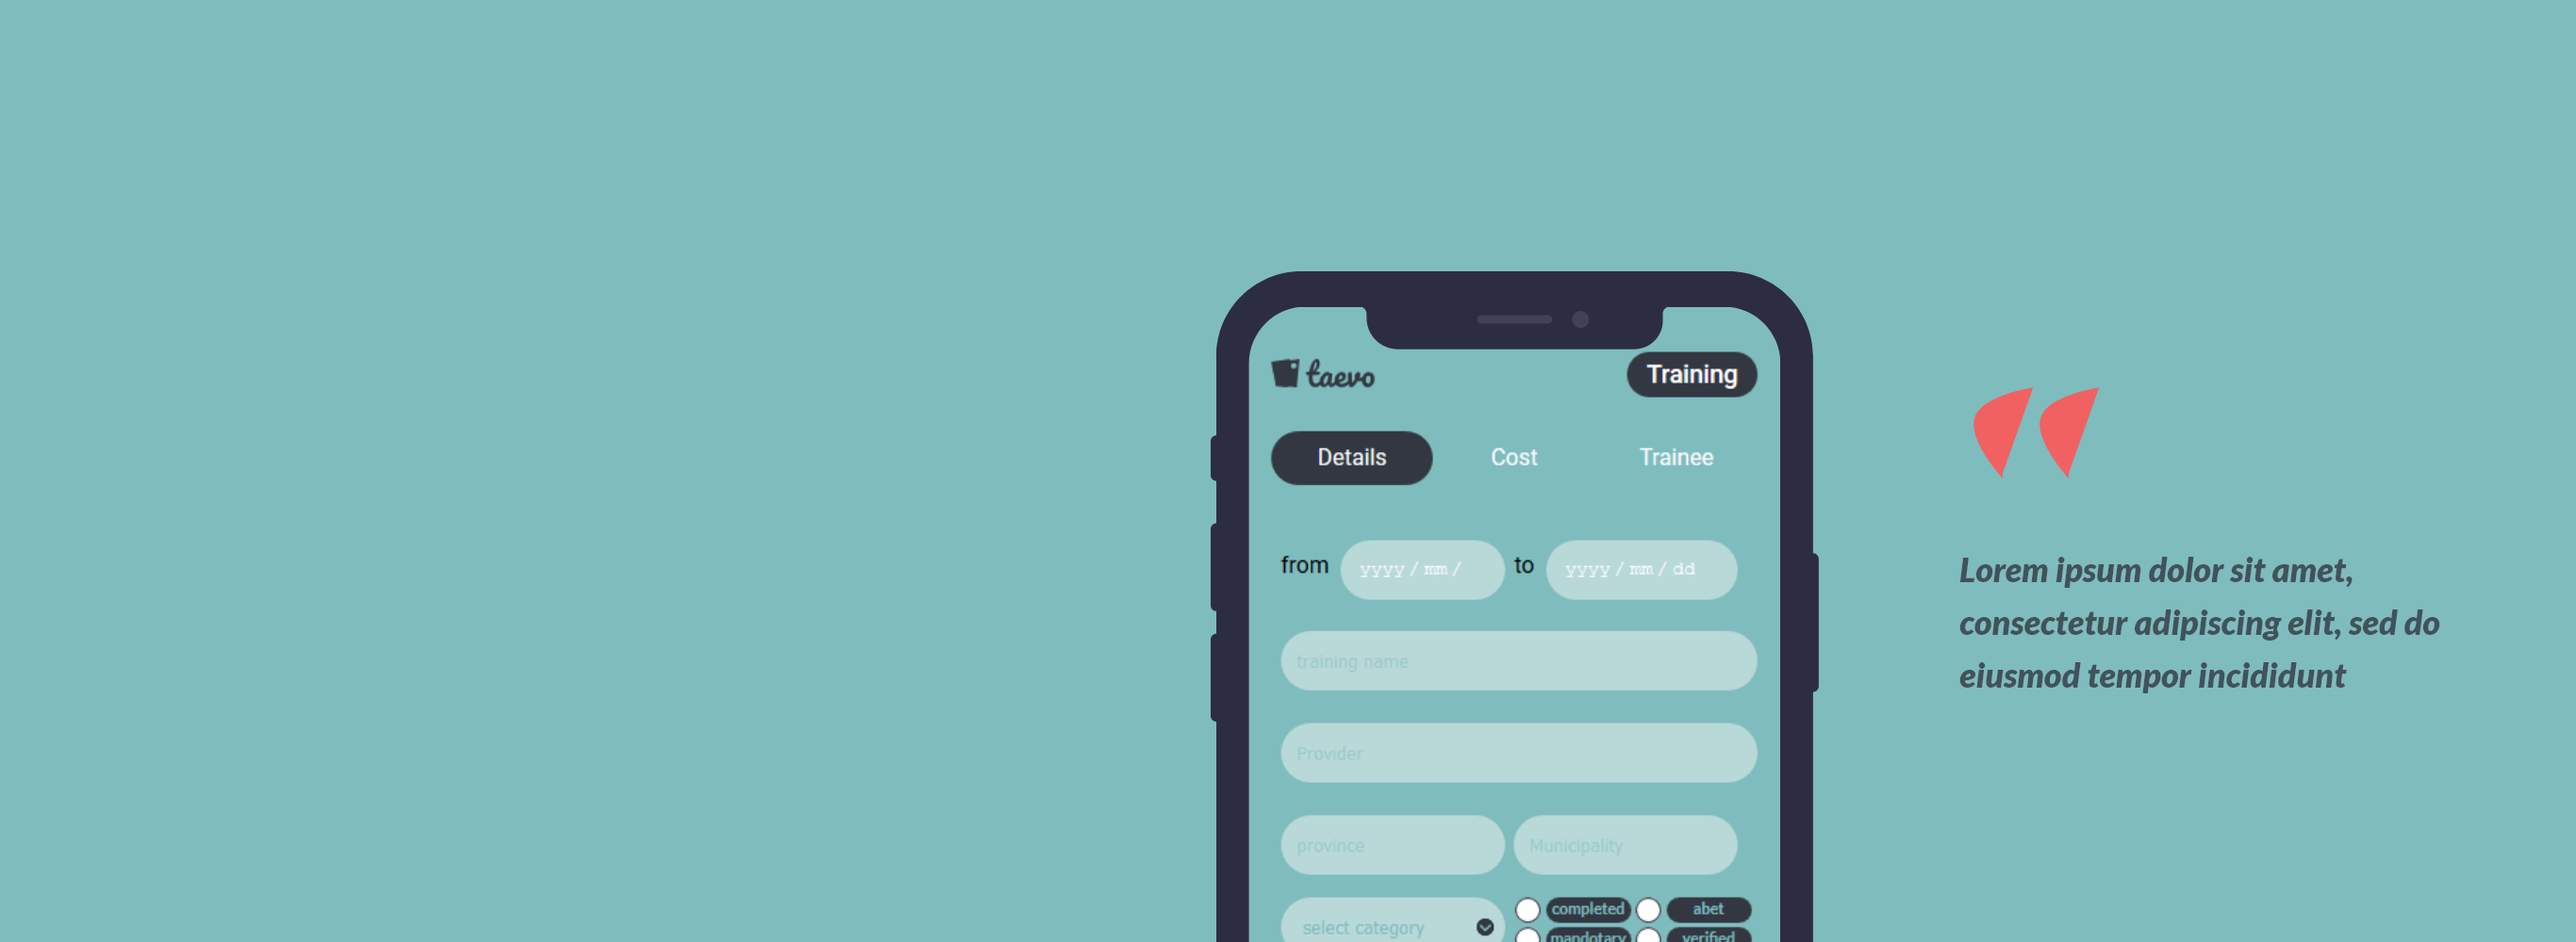
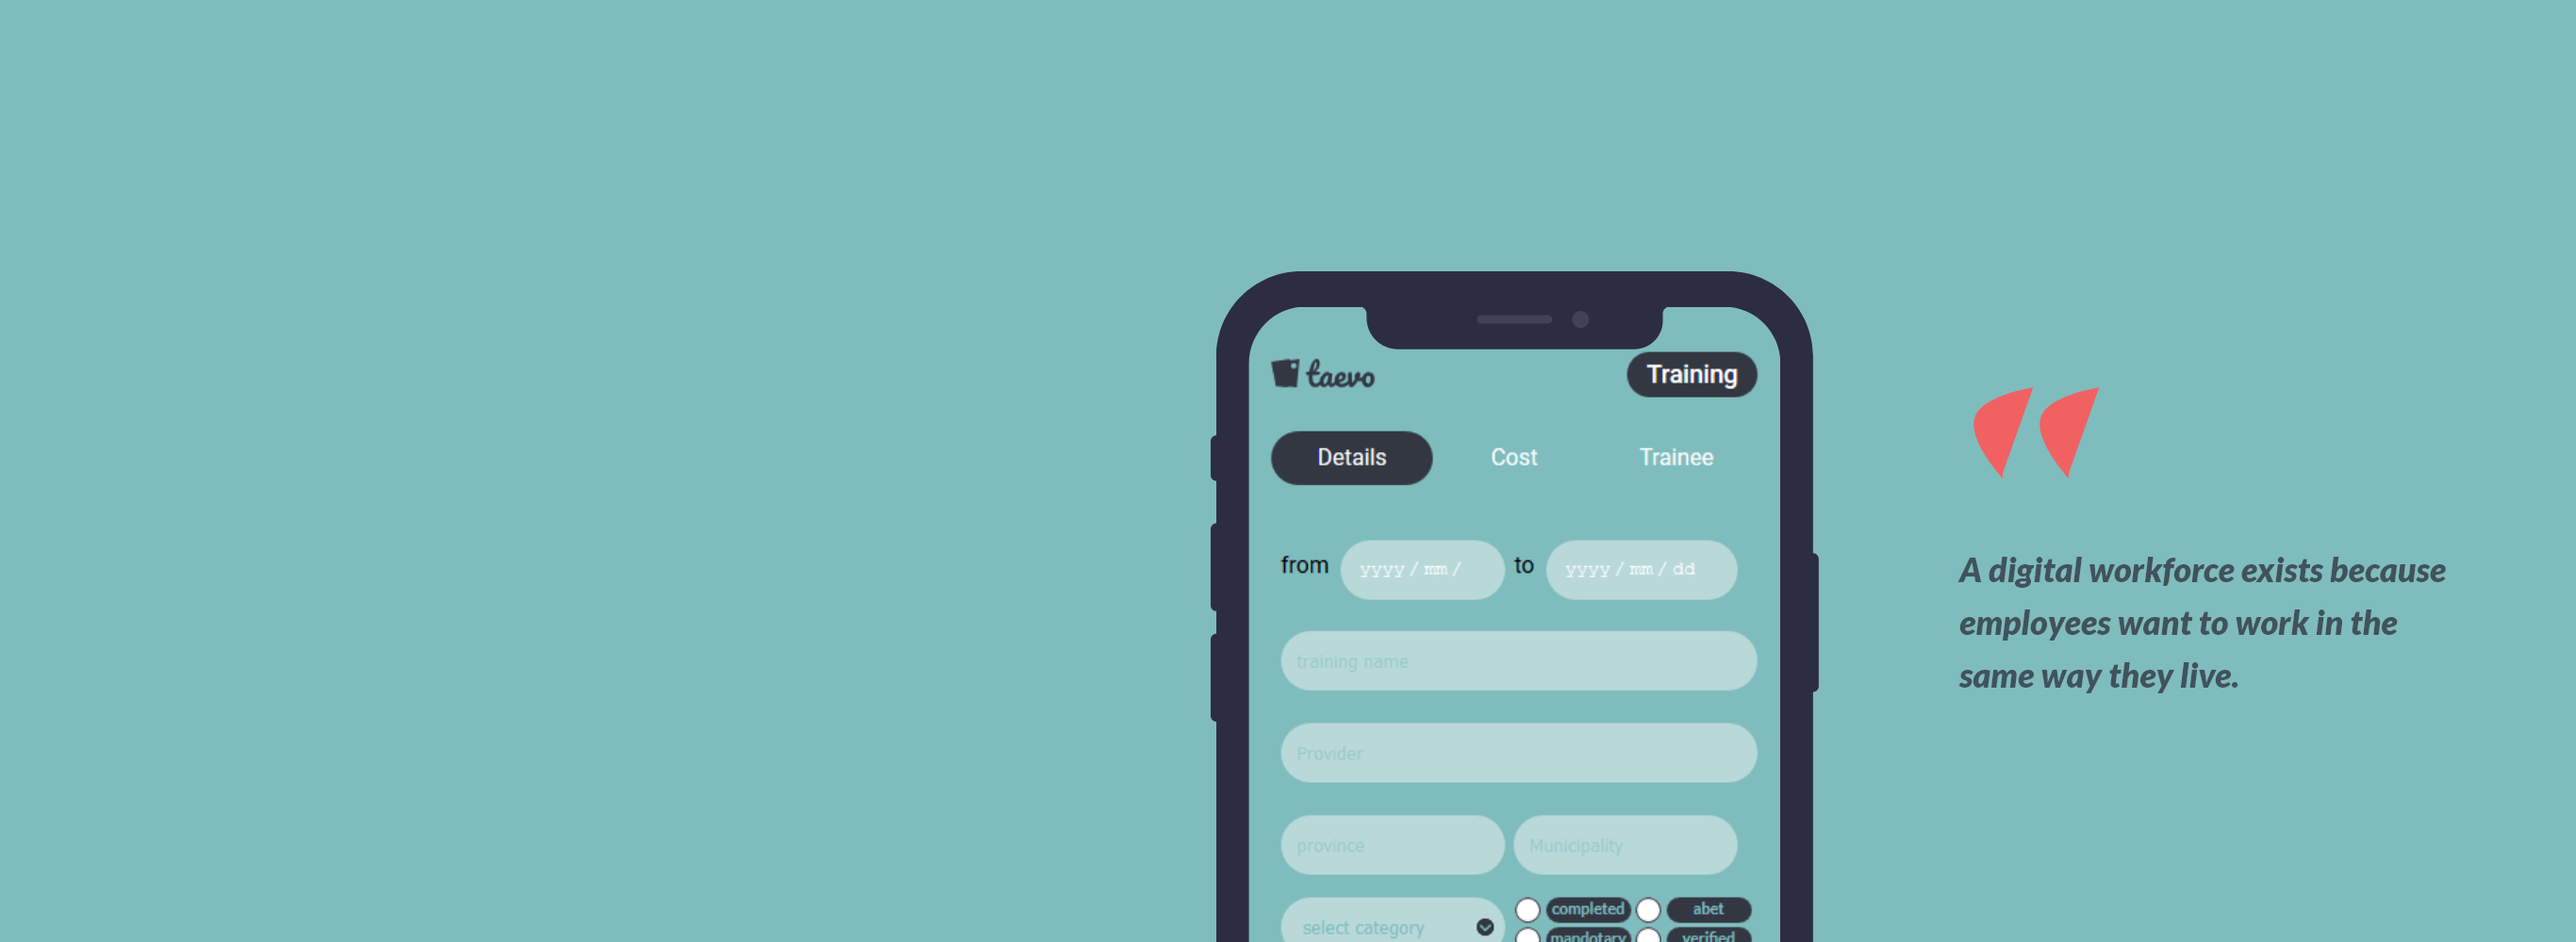
updating information

Changed region(s): [[0.7467, 0.651, 0.9645, 0.744], [0.7467, 0.589, 0.9645, 0.62]]

diff --git a/src/components/AppBanner/AppBanner.js b/src/components/AppBanner/AppBanner.js
@@ -42,7 +42,7 @@ export default function AppBanner() {
       <div id="features">
         <h3>
           <span>Our Solutions</span>
-          <span>A way of getting work done.</span>
+          <span>Transform your employee experience.</span>
         </h3>
         <p>
           Simple and easy-to-follow software solution that reduce human errors.
@@ -59,7 +59,7 @@ export default function AppBanner() {
             <img src={report} alt="icon" />
             <span>
               {" "}
-              Generate value using people analytics to solve business problems
+              Generate value using people analytics to solve business problems.
             </span>
           </li>
           <li>
@@ -70,7 +70,9 @@ export default function AppBanner() {
           </li>
           <li>
             <img src={password} alt="icon" />
-            <span>Lorem ipsum dolor sit amet, consectetur</span>
+            <span>
+              Maximizes connectivity and collaboration while mitigating risks.
+            </span>
           </li>
         </ul>
       </div>

diff --git a/src/components/AppHeader/AppHeader.js b/src/components/AppHeader/AppHeader.js
@@ -14,7 +14,7 @@ export default function AppHeader() {
         <img src={logo} alt="taevo" />
         <span></span>
         <img src={smartphone} alt="phone" />
-        <span>+27 67 060 0708</span>{" "}
+        <span>+27 061 582 4952</span>{" "}
       </h1>
       <nav className={!addClass ? "nav" : "nav addClass"}>
         <ul>

diff --git a/src/components/AppHeader/AppHeader.css b/src/components/AppHeader/AppHeader.css
@@ -105,17 +105,17 @@
 
 @media (max-width: 30em) {
   .App-header {
-    width: 92%;
+    /* width: 92%; */
     height: 60px;
   }
 
   .App-header h1 {
-    width: 65%;
+    /* width: 65%; */
   }
 }
 
-@media (max-width: 30em) {
+@media (max-width: 20em) {
   .App-header h1 {
-    width: 75%;
+    /* width: 75%; */
   }
 }
